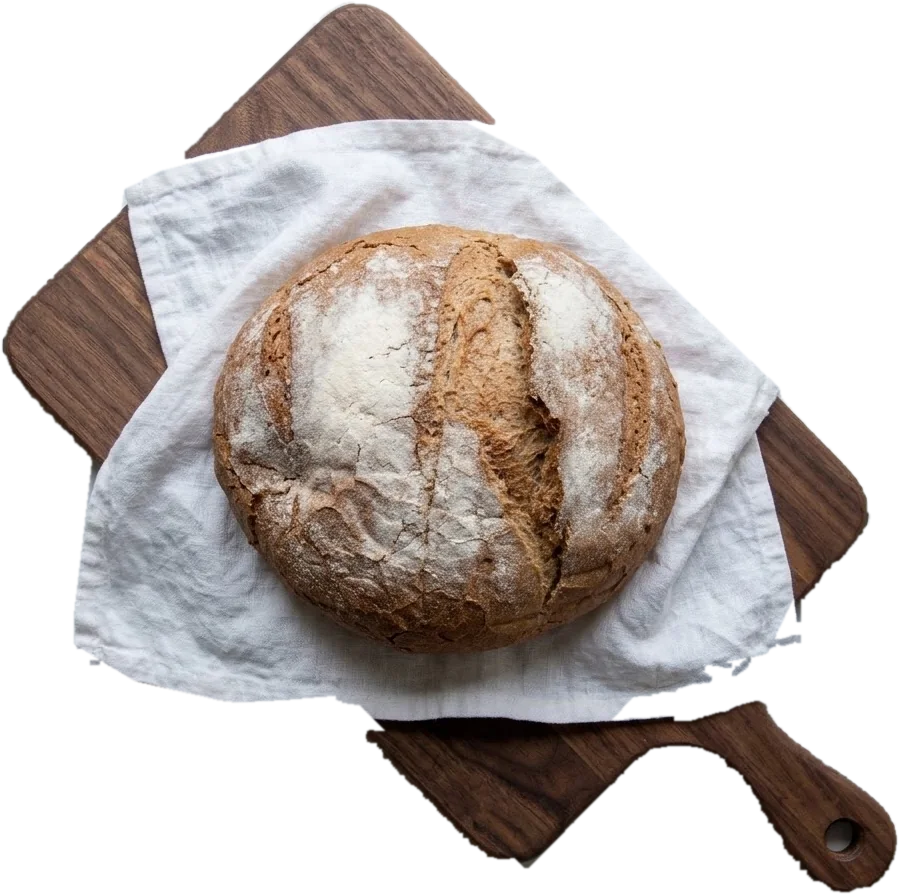
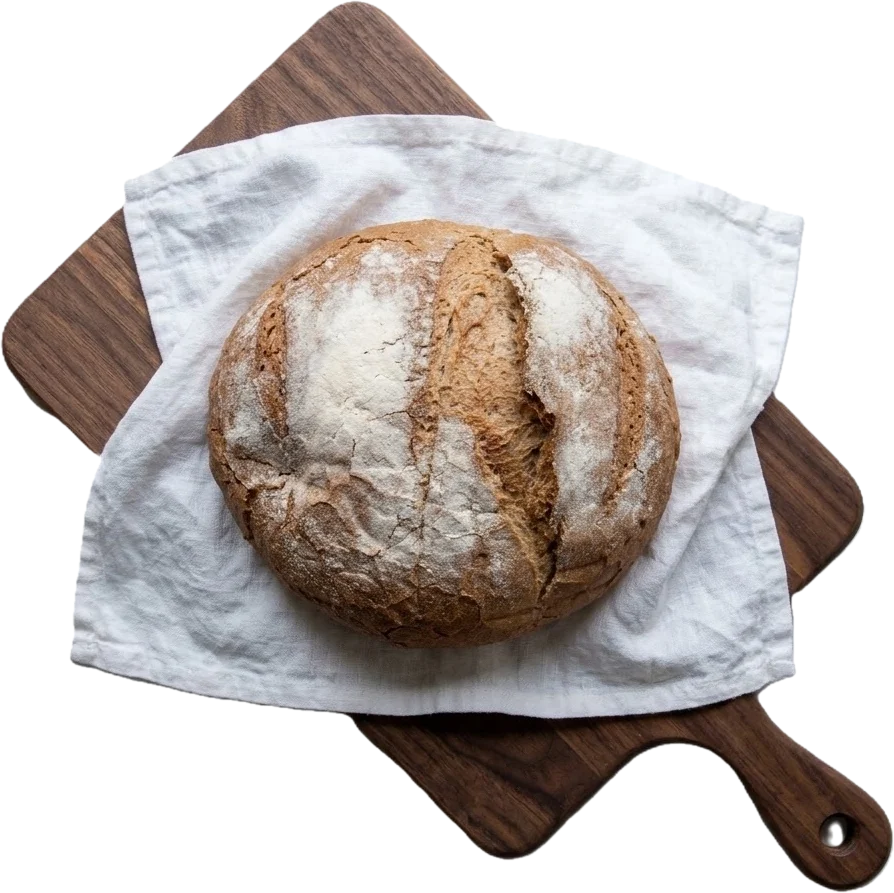
Čist izrez hleba (nova slika), bez belog okvira
Claude-Session: https://claude.ai/code/session_01Roubw8q14GxRFGkEwXAUFa

diff --git a/index.html b/index.html
@@ -1061,8 +1061,7 @@
         </div>
       </div>
       <div class="hw-slika">
-        <span class="hw-okvir" aria-hidden="true"></span>
-        <img src="assets/hleb-daska.webp" alt="Okrugli crni hleb na lanenoj krpi i drvenoj dasci" width="899" height="894" fetchpriority="high">
+        <img src="assets/hleb-daska.webp" alt="Okrugli crni hleb na lanenoj krpi i drvenoj dasci" width="897" height="895" fetchpriority="high">
       </div>
     </div>
   </section>
